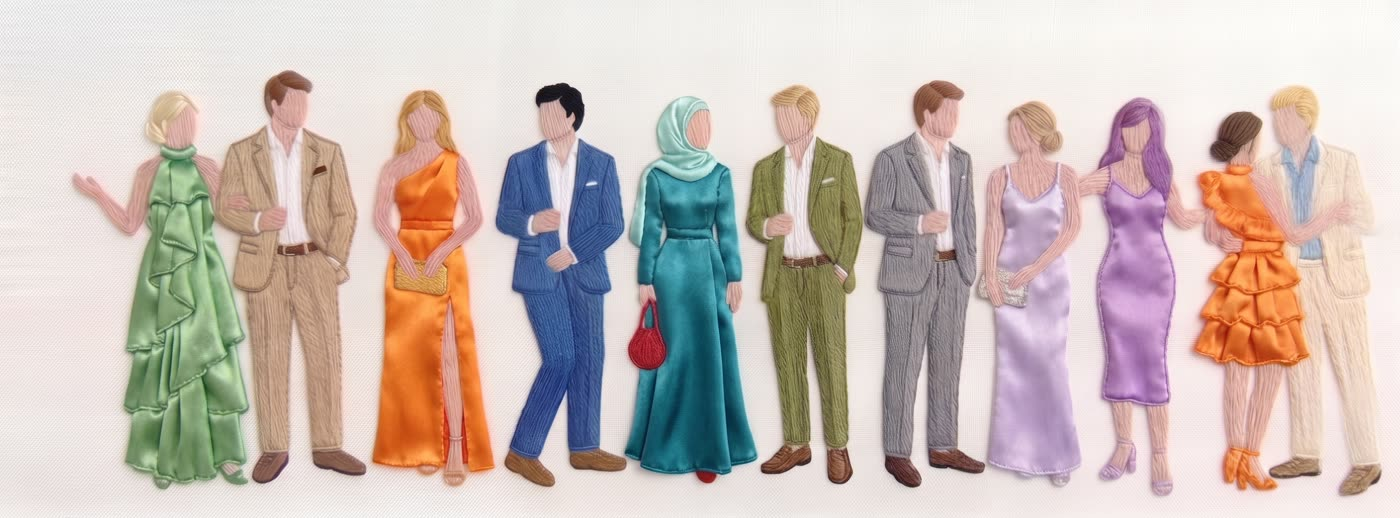
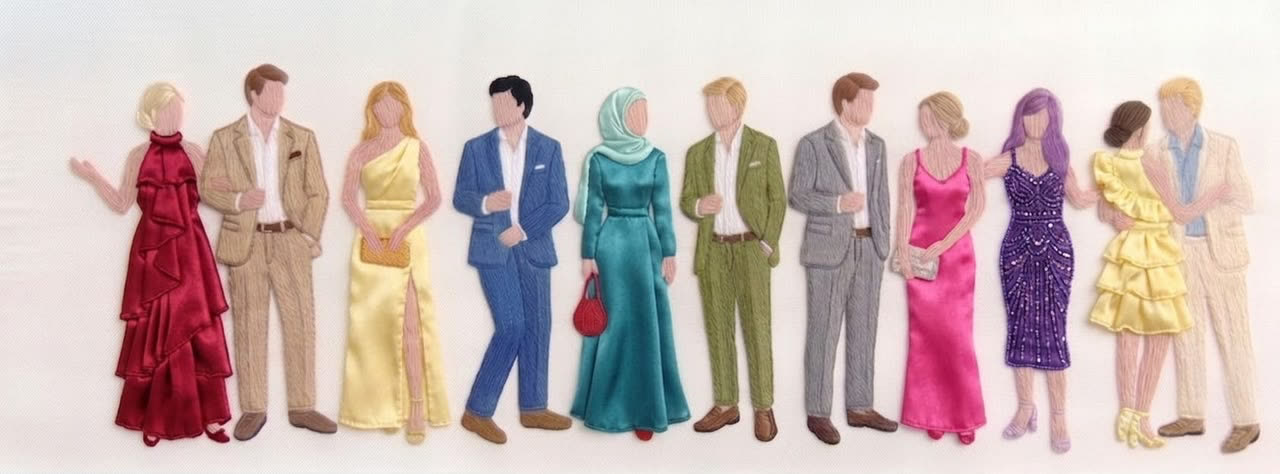
Update invite copy and mobile media framing

diff --git a/index.html b/index.html
@@ -9,7 +9,7 @@
     <title>Karim &amp; Soha &mdash; Engagement</title>
     <meta
       name="description"
-      content="Karim &amp; Soha are celebrating their engagement on Friday, 11 September 2026 at Amoun Resort, Kilo 31 — North Coast."
+      content="Karim &amp; Soha are celebrating their engagement on Friday, 11 September 2026 at Amoun Resort, Kilo 36 — North Coast."
     />
     <meta name="theme-color" content="#FFF8F3" />
     <meta
@@ -18,7 +18,7 @@
     />
     <meta
       property="og:description"
-      content="Friday, 11 September 2026 · Amoun Resort, Kilo 31 — North Coast"
+      content="Friday, 11 September 2026 · Amoun Resort, Kilo 36 — North Coast"
     />
     <meta property="og:type" content="website" />
     <!-- Absolute URLs, because WhatsApp and iMessage do not resolve relative
@@ -320,6 +320,9 @@
         font-size: 1.08rem;
         text-wrap: pretty;
       }
+      .times-new-roman {
+        font-family: "Times New Roman", Times, serif;
+      }
       a {
         color: inherit;
       }
@@ -478,36 +481,57 @@
          looking at the item's left edge, which showed the envelope's corner
          and no seal at all. Nothing overflows at rest now, but anything that
          scales the stage past 1.0 puts it back over the edge. */
-      /* PHONES COVER. The stage takes the full width and its height is whatever
-         9:20 makes of that — which is TALLER than any phone, so it overflows
-         and #opener's `overflow: hidden` crops it. That is the whole of the
-         full-bleed rule: one aspect-ratio, no script, no second breakpoint.
+      /* PHONES COVER. The stage is still the film's 9:20 frame, but its width
+         is allowed to bind to viewport height when the screen is taller than
+         the film. A 320x740 browser viewport is exactly that case: 100% width
+         made a 711px-tall frame and left a cream band at the bottom. This rule
+         grows the frame to 740px tall and lets #opener's `overflow: hidden`
+         take the few pixels of side crop.
 
          The film is 9:20 because THE COUPLE SHOT IT THAT WAY. An earlier round
          faked this ratio by padding their 9:16 frame with mirrored rows; that
          is gone, and no invented pixel reaches a guest.
 
          9:20 is the number because it is taller than every mainstream phone, so
-         covering crops HEIGHT and never width — and width is the axis that
-         cannot afford it, with the birds running to x 0-100% of the frame. The
-         crop budget the pipeline prints is 25.2% top and 27.8% bottom against
-         0.0% on both sides, which is the whole argument for this ratio in two
-         numbers. A 9:19.5 phone takes 2.5% of the height, a 9:16 one 20%. */
+         covering usually crops height instead of width. Very narrow browser
+         viewports can invert that by a few pixels; filling the screen matters
+         more than preserving the cream band, and the centred crop is small. */
       #opener-stage {
         position: absolute;
         left: 50%;
         top: 50%;
-        width: 100%;
+        width: max(100%, calc(100vh * 720 / 1600));
+        width: max(100%, calc(100dvh * 720 / 1600));
         aspect-ratio: 720 / 1600;
         translate: -50% -50%;
         will-change: transform;
       }
-      /* Past 9:16 the crop would start eating the couple's own frame rather
-         than the margin around it, so it stops covering and becomes the inset
-         panel instead. iPad portrait is the only viewport left in this band —
-         every phone is below it and everything square or wider is caught by the
-         landscape rule underneath. */
-      @media (min-aspect-ratio: 9 / 16) {
+      /* The inset panel, for a screen too big to wear a portrait film
+         full-bleed. iPad portrait is the only viewport that lands here; phones
+         cover, and everything square or wider is caught by the landscape rule
+         underneath.
+
+         KEYED ON WIDTH, AND THAT IS A BUG FIX. This was `min-aspect-ratio:
+         9/16` on the reasoning that every phone is taller than 9:16 and so
+         could never match. Every phone *device* is. A phone *browser viewport*
+         is not: Safari spends roughly 18% of the height on its top and bottom
+         toolbars, which took a real iPhone from 9:19.5 (0.46) to 738x1230
+         (0.60) — past 0.5625, so the media query fired and a guest got the
+         tablet panel, a small envelope adrift in cream, on a phone. Reported
+         from a real device; every viewport in check-opener.py is a full-screen
+         device size with no browser chrome, so nothing here caught it.
+
+         Width does not have that failure mode. Browser furniture takes height,
+         not width, so a phone's viewport width is its device width: 430px at
+         the widest, against 768 for the narrowest tablet. 700 sits between
+         them with room on both sides.
+
+         Covering is also safe much further than 9:16 ever implied. The film is
+         the couple's own 9:20 with the birds at y 25.2-72.2%, so a cover crop
+         keeps them until the viewport reaches about 0.91 — nearly square, and
+         far past any phone holding a browser. The old breakpoint was not
+         protecting anything at 0.5625. */
+      @media (min-width: 700px) {
         #opener-stage {
           width: auto;
           height: 86%;
@@ -766,14 +790,15 @@
         width: 100%;
         height: 100%;
         /* Portrait film: the framing rule inverts relative to the Opener.
-           Cover on phones; contain past the film's own 9:16, where covering
-           would show 35% of its height and lose both the sky and the sand
-           path. */
+           Cover on phones, including browser viewports that become slightly
+           wider than 9:16 after mobile UI takes height away. The side bands
+           were coming from that exact case at 425x740. Tablet and desktop
+           widths keep the contained invitation-card treatment. */
         object-fit: cover;
         z-index: 0;
         transition: opacity 600ms linear;
       }
-      @media (min-aspect-ratio: 9 / 16) {
+      @media (min-width: 700px) {
         .hero-film {
           object-fit: contain;
         }
@@ -1125,8 +1150,17 @@
 
          It is the SAME construction as .sketch-dress below, at HALF the
          depth, and the asymmetry is measured rather than chosen. The dress's
-         own background is rgb(248,244,242) and --sketch-ground is #f8f4f2 --
-         distance 0 -- so its feather is invisible: it hides a seam. The venue
+         own background is rgb(242,240,239) and --sketch-ground is #f8f4f2 --
+         distance 6 -- so its feather has almost nothing to cross. It USED to
+         have literally nothing: the retired line-up measured rgb(248,244,242),
+         distance 0. The colourful one the couple supplied 2026-08-23 has a
+         cooler, slightly darker ground, and rendered on the page's warm cream
+         its interior reads rgb(236,235,230) against rgb(255,243,235) -- 19/255,
+         where the old file was 9. That is a soft haze at the picture's edge,
+         not an edge, and the feather is what keeps it soft. Deepening the
+         feather to swallow the rest is NOT the fix: this line-up puts figures
+         within 2% of its right edge and 6% already fades an arm. If the haze
+         ever needs to go, the ground has to be lifted in the FILE. The venue
          photo's edges are nowhere near the page ground:
 
            top (sky)    rgb(234,193,191)   78 from --ground
@@ -1295,14 +1329,30 @@
       .rainbow > i {
         font-style: inherit;
       }
-      .rainbow > i:nth-child(1) { color: var(--hue-1); }
-      .rainbow > i:nth-child(2) { color: var(--hue-2); }
-      .rainbow > i:nth-child(3) { color: var(--hue-3); }
-      .rainbow > i:nth-child(4) { color: var(--hue-4); }
-      .rainbow > i:nth-child(5) { color: var(--hue-5); }
-      .rainbow > i:nth-child(6) { color: var(--hue-6); }
-      .rainbow > i:nth-child(7) { color: var(--hue-7); }
-      .rainbow > i:nth-child(8) { color: var(--hue-8); }
+      .rainbow > i:nth-child(1) {
+        color: var(--hue-1);
+      }
+      .rainbow > i:nth-child(2) {
+        color: var(--hue-2);
+      }
+      .rainbow > i:nth-child(3) {
+        color: var(--hue-3);
+      }
+      .rainbow > i:nth-child(4) {
+        color: var(--hue-4);
+      }
+      .rainbow > i:nth-child(5) {
+        color: var(--hue-5);
+      }
+      .rainbow > i:nth-child(6) {
+        color: var(--hue-6);
+      }
+      .rainbow > i:nth-child(7) {
+        color: var(--hue-7);
+      }
+      .rainbow > i:nth-child(8) {
+        color: var(--hue-8);
+      }
       .dress-call .sparks {
         display: inline-flex;
         align-items: center;
@@ -1455,7 +1505,7 @@
    MEDIA WIDENS, MEASURE HOLDS. `.wrap` opens to 47rem so the pictures have
    desktop presence, and everything that is read as prose keeps its 34rem
    line length inside it. 47rem is 752px, which is under venue.jpg's native
-   1200px and dress.jpg's 1400px, so nothing upscales.
+   1200px and dress.jpg's 1280px, so nothing upscales.
 
    `.times` is capped with the prose deliberately, not because it is prose:
    its `1fr auto 1fr` spreads the two times from 272px apart to 376px as the
@@ -1635,7 +1685,7 @@
       <section class="tier-lead">
         <div class="wrap stack">
           <h2 class="sec-title">Welcome!</h2>
-          <p>
+          <p class="times-new-roman">
             Every person here has played a big part in shaping our story, and we
             wouldn&rsquo;t trade that for the world. Our engagement
             wouldn&rsquo;t be the same without you.
@@ -1698,7 +1748,7 @@
               decoding="async"
             />
             <p class="venue-name">Amoun Resort</p>
-            <p class="venue-line">Kilo 31 &middot; North Coast</p>
+            <p class="venue-line">Kilo 36 &middot; North Coast</p>
             <a
               class="btn"
               href="https://maps.app.goo.gl/y2wc2xYJrgC65bH3A"
@@ -1730,7 +1780,7 @@
             <img
               class="sketch sketch-dress"
               src="assets/dress.jpg"
-              alt="A line-up of guests in linen suits and light summer dresses"
+              alt="A line-up of guests in linen suits and colourful gowns"
               loading="lazy"
               decoding="async"
             />
@@ -1738,27 +1788,54 @@
             <div class="dress-lines">
               <p class="dress-call">
                 <span class="sparks" aria-hidden="true">
-                  <svg class="spark spark-sm s-teal" viewBox="0 0 24 24" aria-hidden="true">
-                    <path d="M12 1.6c.6 5.1 5.3 9.8 10.4 10.4-5.1.6-9.8 5.3-10.4 10.4-.6-5.1-5.3-9.8-10.4-10.4C6.7 11.4 11.4 6.7 12 1.6Z" />
+                  <svg
+                    class="spark spark-sm s-teal"
+                    viewBox="0 0 24 24"
+                    aria-hidden="true"
+                  >
+                    <path
+                      d="M12 1.6c.6 5.1 5.3 9.8 10.4 10.4-5.1.6-9.8 5.3-10.4 10.4-.6-5.1-5.3-9.8-10.4-10.4C6.7 11.4 11.4 6.7 12 1.6Z"
+                    />
                   </svg>
-                  <svg class="spark s-coral" viewBox="0 0 24 24" aria-hidden="true">
-                    <path d="M12 1.6c.6 5.1 5.3 9.8 10.4 10.4-5.1.6-9.8 5.3-10.4 10.4-.6-5.1-5.3-9.8-10.4-10.4C6.7 11.4 11.4 6.7 12 1.6Z" />
+                  <svg
+                    class="spark s-coral"
+                    viewBox="0 0 24 24"
+                    aria-hidden="true"
+                  >
+                    <path
+                      d="M12 1.6c.6 5.1 5.3 9.8 10.4 10.4-5.1.6-9.8 5.3-10.4 10.4-.6-5.1-5.3-9.8-10.4-10.4C6.7 11.4 11.4 6.7 12 1.6Z"
+                    />
                   </svg>
                 </span>
                 Come in color
                 <span class="sparks" aria-hidden="true">
-                  <svg class="spark s-amber" viewBox="0 0 24 24" aria-hidden="true">
-                    <path d="M12 1.6c.6 5.1 5.3 9.8 10.4 10.4-5.1.6-9.8 5.3-10.4 10.4-.6-5.1-5.3-9.8-10.4-10.4C6.7 11.4 11.4 6.7 12 1.6Z" />
+                  <svg
+                    class="spark s-amber"
+                    viewBox="0 0 24 24"
+                    aria-hidden="true"
+                  >
+                    <path
+                      d="M12 1.6c.6 5.1 5.3 9.8 10.4 10.4-5.1.6-9.8 5.3-10.4 10.4-.6-5.1-5.3-9.8-10.4-10.4C6.7 11.4 11.4 6.7 12 1.6Z"
+                    />
                   </svg>
-                  <svg class="spark spark-sm s-berry" viewBox="0 0 24 24" aria-hidden="true">
-                    <path d="M12 1.6c.6 5.1 5.3 9.8 10.4 10.4-5.1.6-9.8 5.3-10.4 10.4-.6-5.1-5.3-9.8-10.4-10.4C6.7 11.4 11.4 6.7 12 1.6Z" />
+                  <svg
+                    class="spark spark-sm s-berry"
+                    viewBox="0 0 24 24"
+                    aria-hidden="true"
+                  >
+                    <path
+                      d="M12 1.6c.6 5.1 5.3 9.8 10.4 10.4-5.1.6-9.8 5.3-10.4 10.4-.6-5.1-5.3-9.8-10.4-10.4C6.7 11.4 11.4 6.7 12 1.6Z"
+                    />
                   </svg>
                 </span>
               </p>
-              <p>
+              <p class="times-new-roman">
                 Satin, floral, bold, or soft; wear whatever makes you feel
                 beautiful, as long as it&rsquo;s
-                <span class="rainbow"><i>c</i><i>o</i><i>l</i><i>o</i><i>r</i><i>f</i><i>u</i><i>l</i></span>.
+                <span class="rainbow"
+                  ><i>c</i><i>o</i><i>l</i><i>o</i><i>r</i><i>f</i><i>u</i
+                  ><i>l</i></span
+                >.
               </p>
             </div>
           </div>
@@ -1850,7 +1927,7 @@
         var vw = heroEl.clientWidth,
           vh = heroEl.clientHeight;
         if (!vw || !vh) return;
-        var contain = vw / vh >= FILM_W / FILM_H,
+        var contain = vw >= 700,
           s = contain
             ? Math.min(vw / FILM_W, vh / FILM_H)
             : Math.max(vw / FILM_W, vh / FILM_H);
